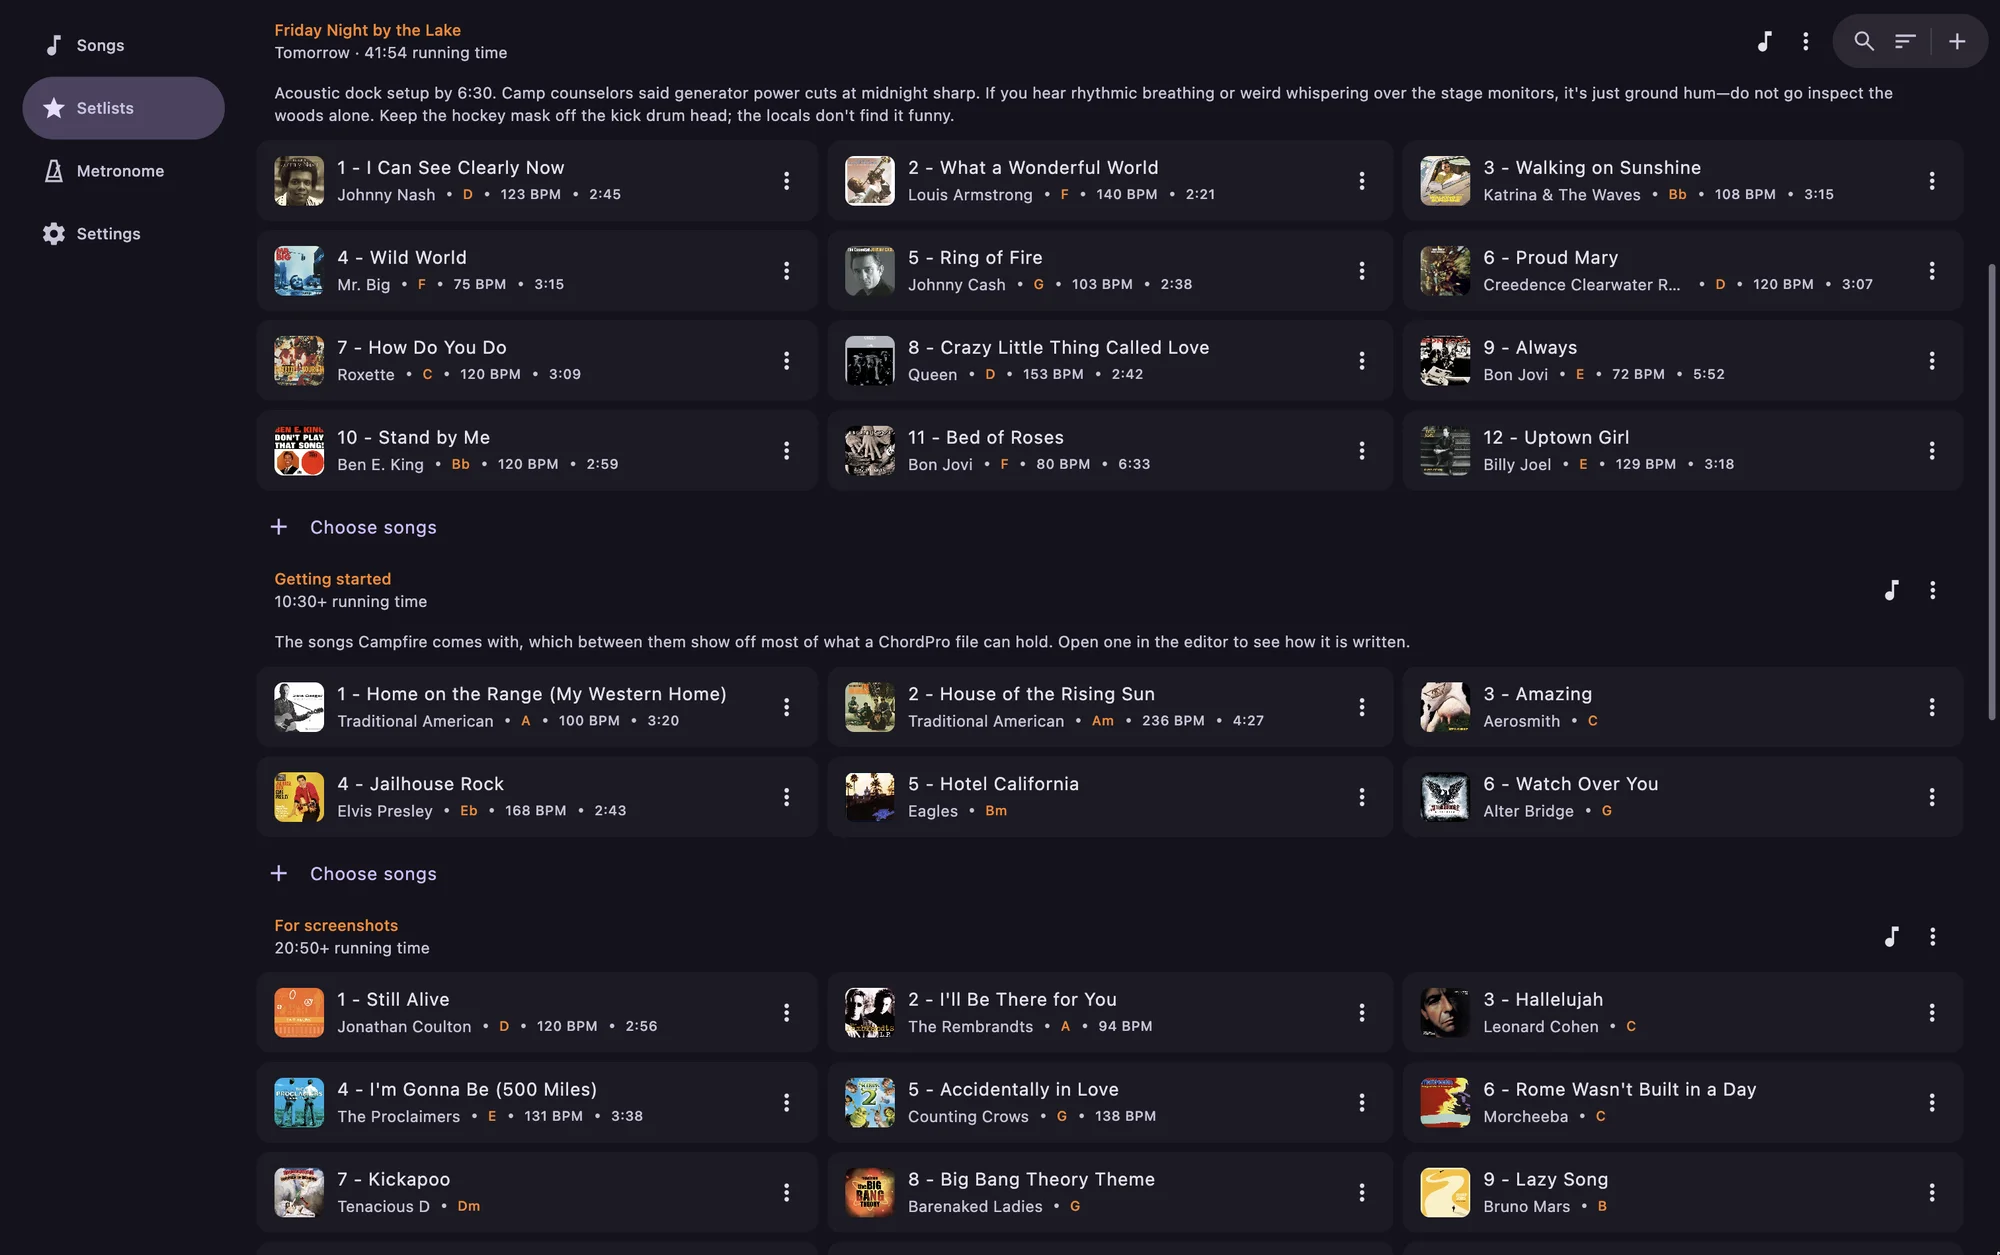
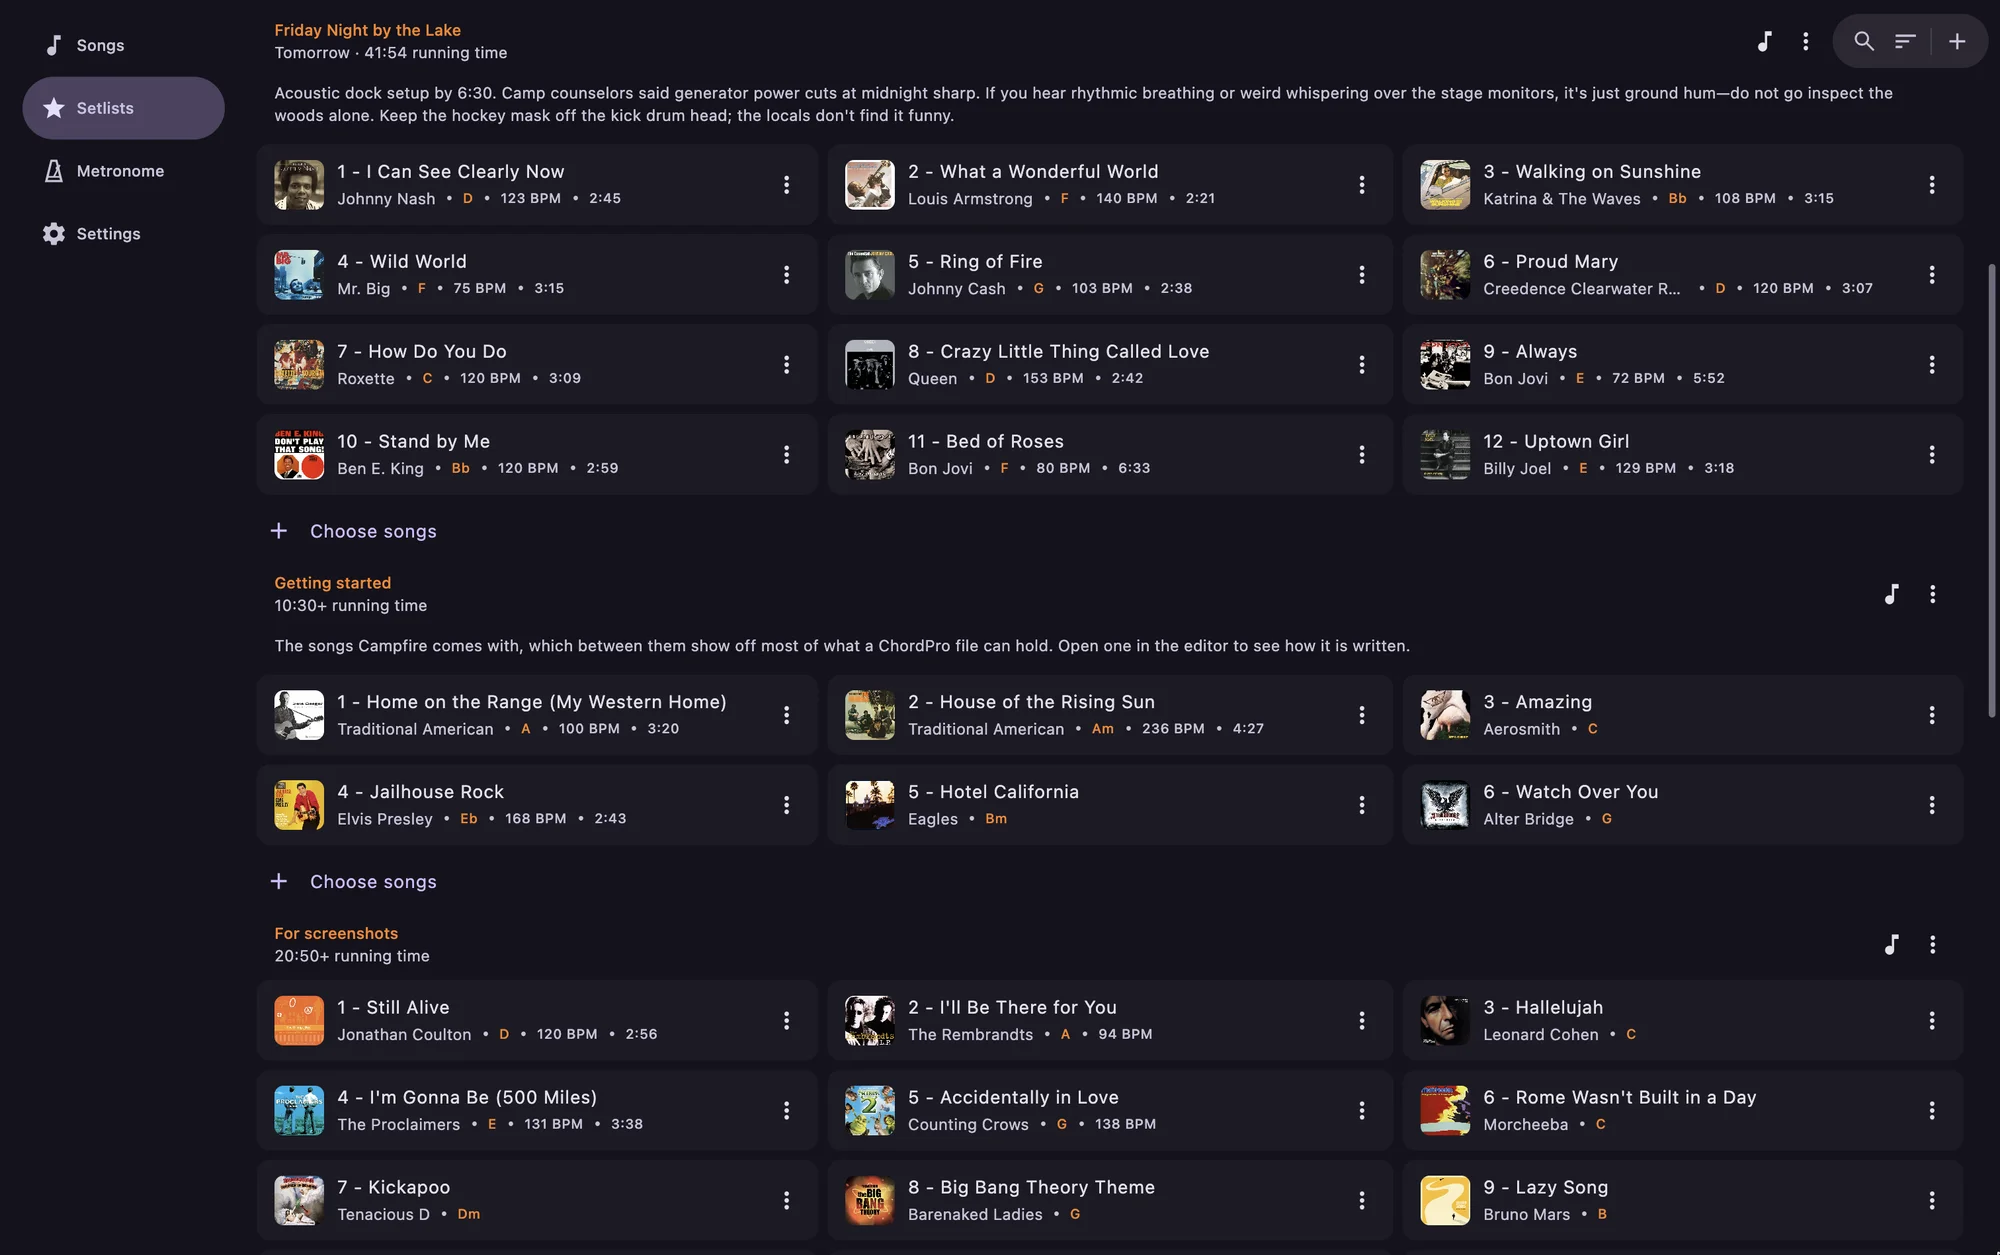
Update screenshots.

diff --git a/assets/site.css b/assets/site.css
@@ -168,7 +168,7 @@ html:not([data-platform]) .for-mobile, html[data-platform] .for-desktop { displa
 .stage::before { content: ""; position: absolute; inset: 8% 4% 4% 10%; z-index: -1; border-radius: 50%; background: linear-gradient(135deg, #5A49CA, #F57C00); opacity: 0.28; filter: blur(56px); }
 .stage .laptop { position: absolute; top: 0; right: 0; width: 86%; }
 .stage .tablet { position: absolute; bottom: 8%; left: 0; width: 60%; }
-.stage .phone { position: absolute; bottom: 1%; left: 53%; width: 21%; }
+.stage .phone { position: absolute; bottom: 1%; left: 52%; width: 21%; }
 
 /* What Campfire is about, right under the hero */
 .highlights { display: grid; grid-template-columns: repeat(4, 1fr); gap: 24px 32px; margin: 0; padding: 32px 0 0; list-style: none; border-top: 1px solid var(--outline-variant); }
